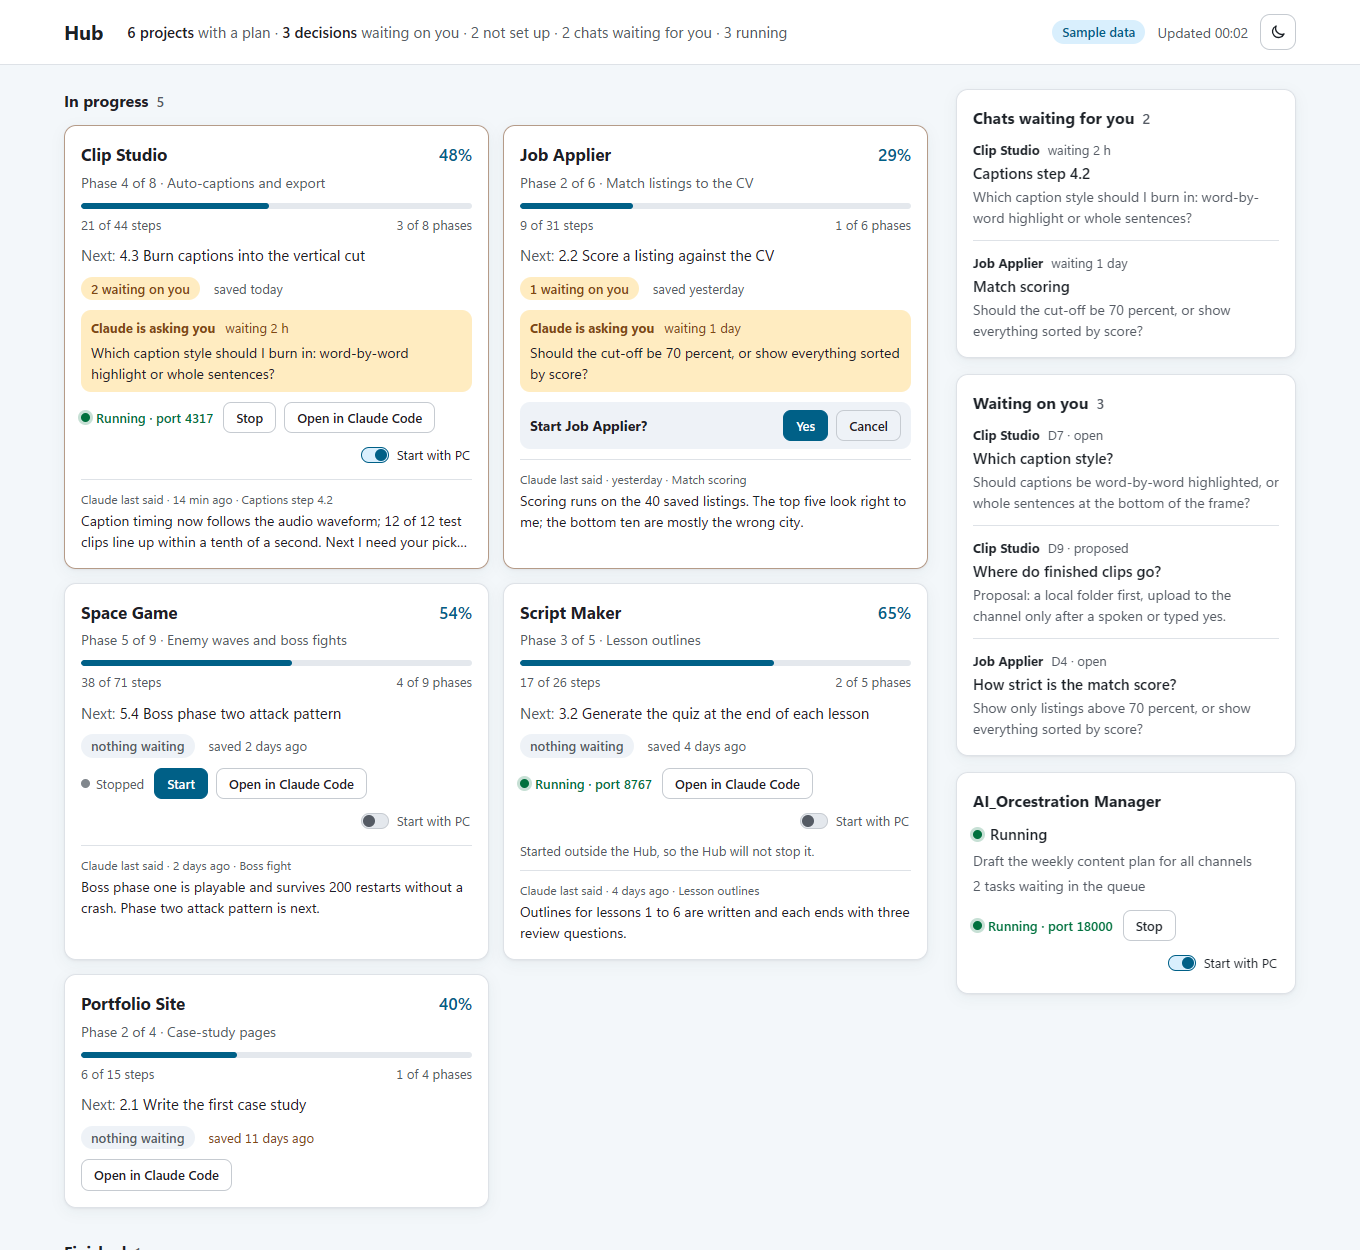
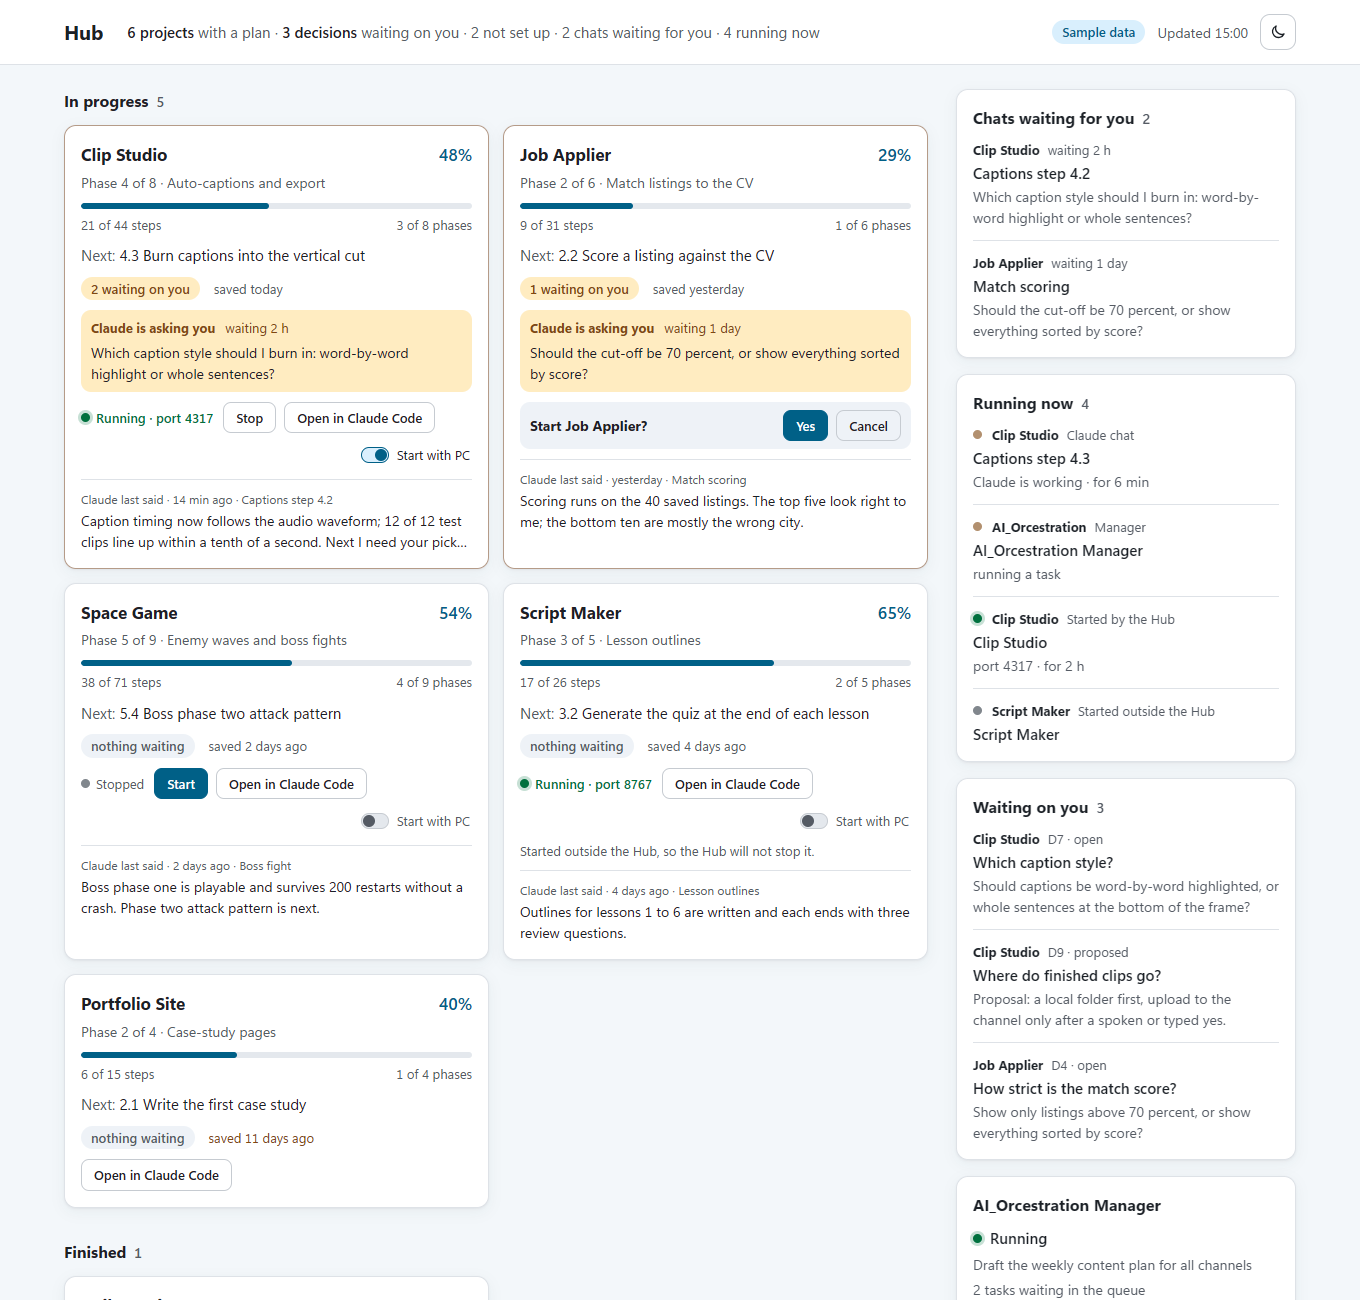
Step 12.2: Running now panel on the dashboard

diff --git a/tools/dashboard/public/app.js b/tools/dashboard/public/app.js
@@ -35,6 +35,7 @@ let runtime = [];                   // one entry per startable project
 let lastData = null;                // last render input, so the question row survives the 30 s refresh
 let asking = null;                  // { kind, name, id, label, text } while a "...?" row is open
 let note = "";
+let runningNow = [];                   // what is working right now (from /api/running)
 let needs = [];                     // chats that are waiting for Ivan (from /api/needs-you)
 const needsFor = (name) => needs.filter((n) => n.project === name);
 const waited = (iso) => { const m = Math.round((Date.now() - new Date(iso).getTime()) / 60000); return m < 60 ? `${Math.max(m, 1)} min` : m < 1440 ? `${Math.round(m / 60)} h` : (d => d === 1 ? "1 day" : `${d} days`)(Math.round(m / 1440)); };
@@ -86,6 +87,10 @@ async function send(body, retry = true) {
   return r.json().catch(() => ({ ok: false, error: "The Hub answered something unexpected." }));
 }
 
+async function loadRunning() {
+  try { runningNow = (await (await fetch("/api/running", { cache: "no-store" })).json()).items || []; } catch { /* keep the last list */ }
+}
+
 async function loadNeeds() {
   try { needs = (await (await fetch("/api/needs-you", { cache: "no-store" })).json()).items || []; } catch { /* keep the last list */ }
 }
@@ -100,7 +105,7 @@ async function pollWhileStarting() {
   const until = Date.now() + 5 * 60_000;
   while (Date.now() < until) {
     await new Promise((d) => setTimeout(d, 2000));
-    await loadRuntime(); if (lastData) render(lastData);
+    await Promise.all([loadRuntime(), loadRunning()]); if (lastData) render(lastData);
     if (!runtime.some((r) => r.status === "starting")) break;
   }
   polling = false;
@@ -114,7 +119,7 @@ async function perform(a) {
   setNote("Working on it…");
   const r = await send(body);
   setNote(r.ok ? r.message : r.error || "That did not work.", !r.ok);
-  await loadRuntime(); if (lastData) render(lastData);
+  await Promise.all([loadRuntime(), loadRunning()]); if (lastData) render(lastData);
   if (r.ok && a.kind === "start") pollWhileStarting();
 }
 
@@ -172,7 +177,7 @@ function render(data) {
     h("b", {}, waiting === 0 ? "nothing" : `${waiting} decision${waiting > 1 ? "s" : ""}`), " waiting on you",
     unset.length ? ` · ${unset.length} not set up` : "",
     needs.length ? ` · ${needs.length} chat${needs.length > 1 ? "s" : ""} waiting for you` : "",
-    runtime.some((r) => r.status === "running") ? ` · ${runtime.filter((r) => r.status === "running").length} running` : "");
+    runningNow.length ? ` · ${runningNow.length} running now` : "");
 
   $("active-count").textContent = active.length;
   $("active").replaceChildren(...active.map((p) => card(p, byName.get(p.name))));
@@ -182,6 +187,13 @@ function render(data) {
   $("unset-section").hidden = unset.length === 0;
   $("unset-count").textContent = unset.length;
   $("unset").replaceChildren(...unset.map((p) => h("li", {}, p.name)));
+
+  const KIND = { chat: "Claude chat", manager: "Manager", program: "Started by the Hub", outside: "Started outside the Hub" };
+  $("running-count").textContent = runningNow.length || "";
+  $("running").replaceChildren(...(runningNow.length ? runningNow.map((r) => h("li", {},
+    h("div", { class: "w-top" }, h("span", { class: "dot " + (r.kind === "program" ? "on" : r.kind === "outside" ? "" : "busy"), "aria-hidden": "true" }), h("b", {}, r.project), h("span", {}, KIND[r.kind] || r.kind)),
+    r.kind === "chat" && r.label ? h("div", { class: "w-title" }, r.label) : h("div", { class: "w-title" }, r.label),
+    (parts => parts ? h("div", { class: "w-q" }, parts) : null)([r.kind === "outside" ? null : r.detail, r.since ? `for ${waited(r.since)}` : null].filter(Boolean).join(" · ")))) : [h("li", {}, h("p", { class: "empty" }, "Nothing is running."))]));
 
   $("needs-panel").hidden = needs.length === 0;
   $("needs-count").textContent = needs.length || "";
@@ -209,7 +221,7 @@ function render(data) {
 
 async function load() {
   const get = async (path) => { const r = await fetch(path, { cache: "no-store" }); if (!r.ok) throw new Error(path); return r.json(); };
-  const [p, d, a, m] = await Promise.allSettled([get("/api/projects"), get("/api/decisions"), get("/api/answers"), get("/api/manager"), loadRuntime(), loadNeeds()]);
+  const [p, d, a, m] = await Promise.allSettled([get("/api/projects"), get("/api/decisions"), get("/api/answers"), get("/api/manager"), loadRuntime(), loadNeeds(), loadRunning()]);
   if (p.status !== "fulfilled") { $("banner").hidden = false; return; }
   $("banner").hidden = true;
   $("demo-tag").hidden = !p.value.demo;
@@ -239,4 +251,14 @@ paintToggle();
 
 $("active").replaceChildren(...[0, 1, 2].map(() => h("div", { class: "skeleton" })));
 load();
-setInterval(() => { if (!asking) load(); }, REFRESH_MS); // a refresh never closes a question that is open
+// refresh rhythm (D32): the running panel every 10 s and the rest every 30 s while the page is in front; once every 2 minutes while the tab is hidden.
+// A refresh never closes a question that is open.
+let ticks = 0;
+setInterval(async () => {
+  ticks++;
+  if (document.hidden) { if (ticks % 12 === 0 && !asking) load(); return; }
+  if (asking) return;
+  if (ticks % 3 === 0) load();
+  else { await loadRunning(); if (lastData) render(lastData); }
+}, 10_000);
+document.addEventListener("visibilitychange", () => { if (!document.hidden && !asking) load(); });

diff --git a/tools/dashboard/public/index.html b/tools/dashboard/public/index.html
@@ -33,6 +33,10 @@
       <h2 id="h-needs">Chats waiting for you <span class="count" id="needs-count"></span></h2>
       <ul class="waitlist" id="needs"></ul>
     </section>
+    <section class="panel" aria-labelledby="h-running">
+      <h2 id="h-running">Running now <span class="count" id="running-count"></span></h2>
+      <ul class="waitlist runlist" id="running"></ul>
+    </section>
     <section class="panel" aria-labelledby="h-wait">
       <h2 id="h-wait">Waiting on you <span class="count" id="wait-count"></span></h2>
       <ul class="waitlist" id="waitlist"></ul>

diff --git a/tools/dashboard/public/style.css b/tools/dashboard/public/style.css
@@ -193,3 +193,7 @@ a.run.on:hover { text-decoration: underline; }
 .asking-top { display: flex; flex-wrap: wrap; gap: 4px 10px; align-items: center; color: var(--warn); }
 .asking .pill { background: transparent; padding: 0; font-weight: 700; }
 .asking-q { color: var(--ink); font-size: 0.875rem; display: -webkit-box; -webkit-line-clamp: 3; -webkit-box-orient: vertical; overflow: hidden; }
+
+/* running now (step 12.2) */
+.runlist .w-top { align-items: center; }
+.runlist .dot { margin-right: 2px; }

diff --git a/docs/plan/BOARD.md b/docs/plan/BOARD.md
@@ -37,7 +37,7 @@ and has a detail file `docs/plan/phases/<NN>-<name>.md` (NN = the phase number, 
   - [x] 6.3 Detect "a chat needs you" and say so — no hooks and no change to Claude's settings: tools/dashboard/lib/attention.mjs decides from the saved chat files (turn ended + the next-step box asked something or the last paragraph ends with "?"; an open question tool; a tool call open for over 3 minutes = "maybe waiting for permission"). `node tools/dashboard/lib/attention.mjs --selftest` 15/15 on made-up chats, including "answering clears the alert". On the real chats (2026-11-08): Job Application and Family_WiFi flagged with their real questions, a pending question in the ClipForge chat flagged as urgent within a minute, the four quiet chats not flagged; 236 ms. The dashboard marks the card (amber "Claude is asking you", how long, the question), lists them in "Chats waiting for you" and counts them in the top line; /api/needs-you is ready for the voice track ("Game is waiting for you"), which stays in the Jarvis chat
 - [~] Phase 12 — Running now and done (Ivan's wish 2026-11-09)
   - [x] 12.1 List what is running: programs the Hub started, Claude chats that are working, the Manager's queue — GET /api/running (tools/dashboard/lib/running.mjs, attention.mjs chatsWorking): `node tools/dashboard/lib/running.mjs --selftest` 9/9 and attention self-test 17/17; real test 2026-11-09: started Learning Script Maker from the page: it appeared as "program · port 18767 · since 13:57" and vanished after Stop; this Hub chat listed as "Claude is working" since 13:54 (the time Ivan answered, not the overnight wait: work counts from the last pause of 10+ minutes); ClipForge listed as "started outside the Hub"; only names, kinds and times are returned. Limits: arbitrary programs outside the Hub's list are not visible (Windows does not say which project a program belongs to, D32); the chat disappearing when its turn ends is covered by the self-test and re-checked at the next turn
-  - [ ] 12.2 "Running now" panel on the dashboard
+  - [x] 12.2 "Running now" panel on the dashboard — panel in the side column (project, kind, label, how long), "Nothing is running." when empty, count in the top line; real page 2026-11-09 shows this Hub chat "Claude is working · for 5 min" and ClipForge "Started outside the Hub"; the panel refreshes every 10 s in front and every 2 minutes in a hidden tab (D32); no console errors; sample-data screenshots in docs/screenshots/ (one JS name clash found and fixed on the way)
   - [ ] 12.3 "Everything is done" notice (D28: only tell, never shut down)
   - [ ] 12.4 Keep the Hub quiet: measure its cost, slow its refresh when nobody is looking
   - [ ] 12.5 Milestone: Ivan sees the overview while real work runs and says what to change

diff --git a/.claude/memory.md b/.claude/memory.md
@@ -247,3 +247,6 @@ Append newest entries at the bottom. Format: `YYYY-MM-DD: what changed / why / p
 - 12.1 built: lib/running.mjs buildRunning (program, outside, chat, manager), attention.mjs chatsWorking + a start time = first row after the last 10-minute pause, control.mjs runtime gets startedAt, data.mjs workingChats, GET /api/running (+ sample data).
 - Lesson: in the saved chats Ivan's answers to the app's question boxes (AskUserQuestion) arrive as tool_result rows, not typed user rows; only typed messages are user text rows. A chat that waited overnight for an answer is "working" from the answer, so the start time uses pauses, not the last typed message. (The waiting-for-you detector only needs the typed rows inside one turn, which is unaffected.)
 - Windows does not tell which project folder a program belongs to, so "outside the Hub" covers only the Hub's own list (D32 note).
+
+## 2026-11-09 (later) - Step 12.2: Running now panel
+- Panel in the side column fed by /api/running; refresh 10 s in front, 2 min hidden, 30 s for the rest; top line "N running now". Bug while building: a module variable named running was shadowed by a local const in render() (temporal dead zone: the page stuck on "Loading"): renamed runningNow. Lesson: check the console after every UI edit.
